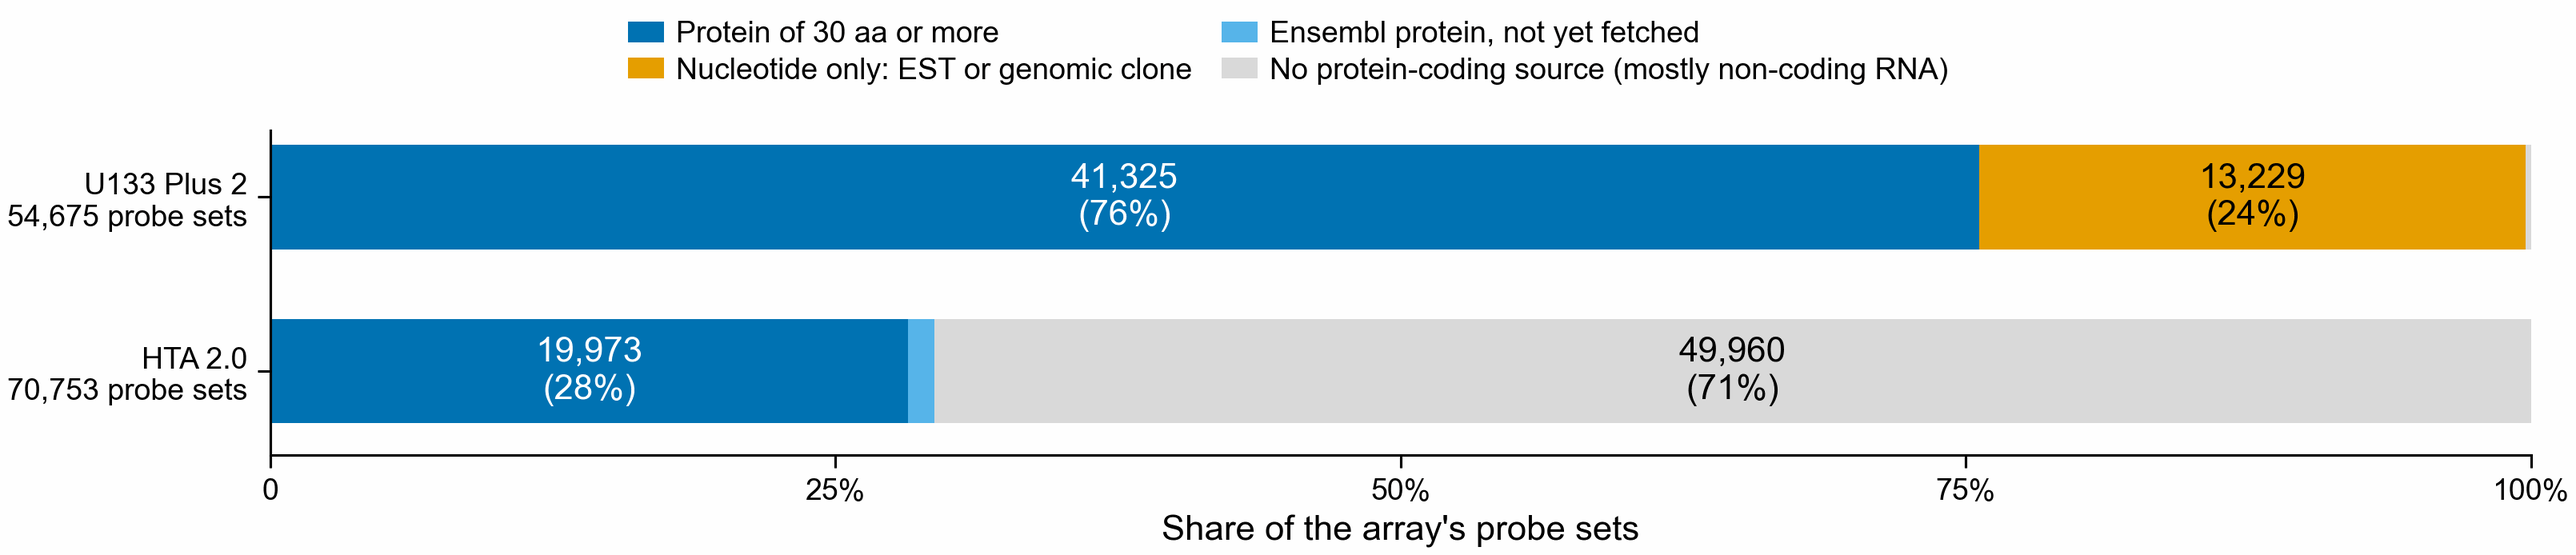
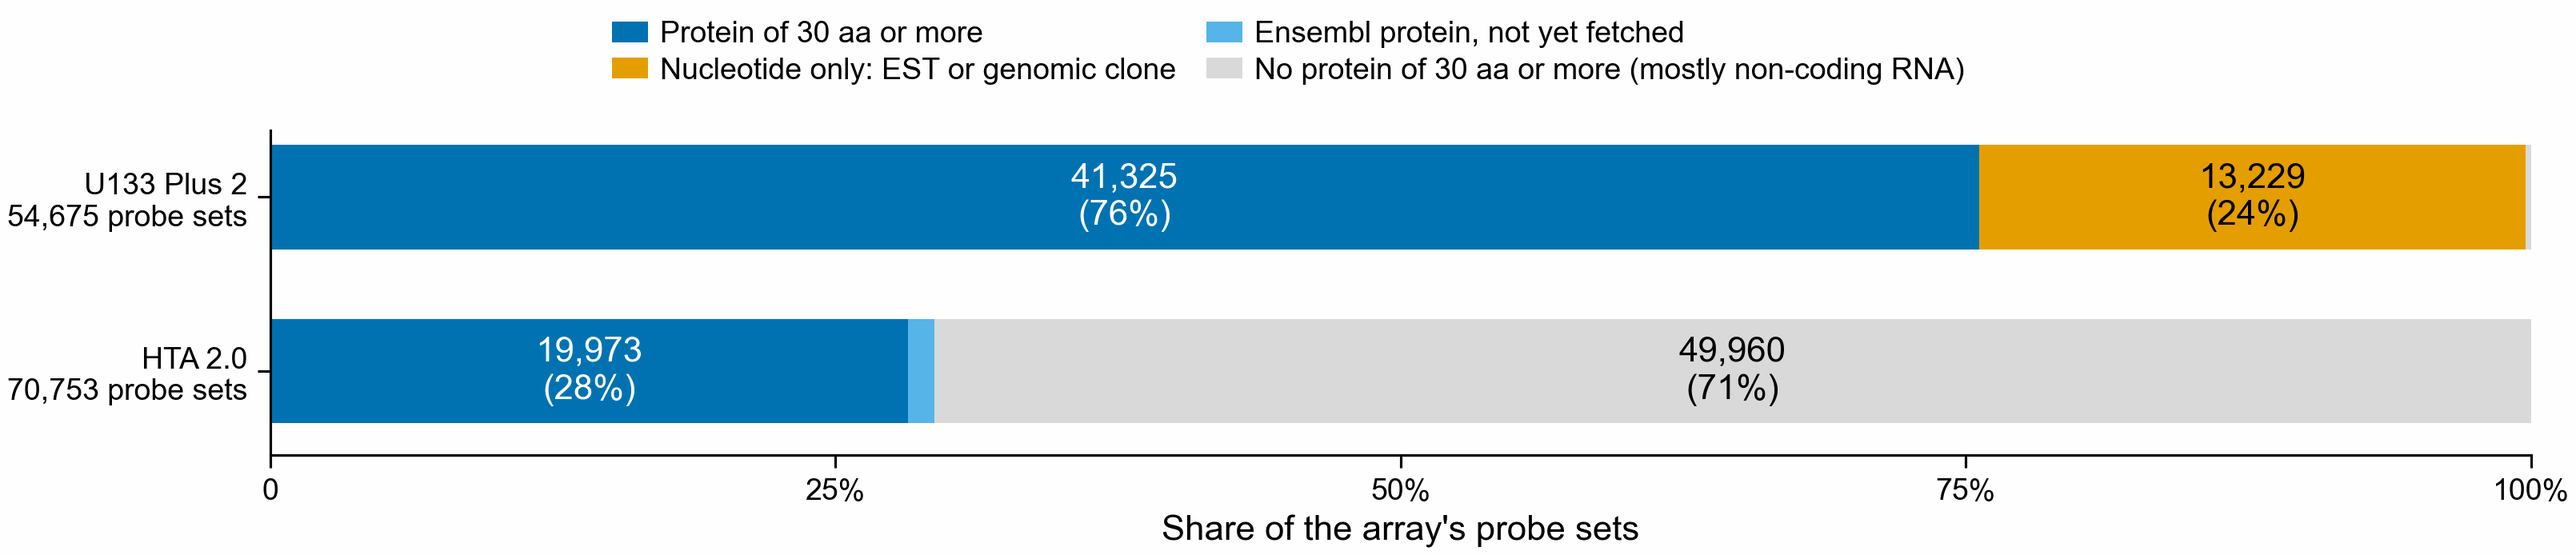
README: anchors fall in 22 clusters; coverage column is 'no protein of 30 aa or more'; contigs 82 % to 98 %
From the nightly /analysis-review of ed4ea5a9. The 121 (U133) and 49,960 (HTA) probe sets include
55 GenBank accessions with no sequence and 14 + 14 proteins under 30 aa, not only probe sets with no
protein-coding source; the figure legend is renamed to match.

Changed region(s): [[0.2174, 0.0303, 0.7764, 0.1513]]

diff --git a/geo2kmers/fig4/plot_protein_coverage.py b/geo2kmers/fig4/plot_protein_coverage.py
@@ -2,7 +2,8 @@
 
 Usage: plot_protein_coverage.py <coverage.tsv> <path to the repository's notebooks folder>
 One bar per array, split by what the probe set's annotation leads to: a protein of 30 amino acids or more, a nucleotide
-sequence only (EST or genomic clone, untranslated), an Ensembl protein not yet fetched, or no protein-coding source.
+sequence only (EST or genomic clone, untranslated), an Ensembl protein not yet fetched, or no protein of 30 amino
+acids or more: no protein-coding source named, or a named source with no sequence or a shorter protein.
 Writes protein_coverage.png and .svg next to the table.
 """
 
@@ -14,6 +15,7 @@ table, notebooks = sys.argv[1:]
 sys.path.insert(0, notebooks)
 import pubfig as pf  # noqa: E402
 
+NONE = "No protein of 30 aa or more (mostly non-coding RNA)"
 GROUPS = [
     (
         "Protein of 30 aa or more",
@@ -22,7 +24,7 @@ GROUPS = [
     ),
     ("Nucleotide only: EST or genomic clone", pf.OKABE_ITO["orange"], {"est", "genomic_clone"}),
     ("Ensembl protein, not yet fetched", pf.OKABE_ITO["sky_blue"], {"ensembl_coding"}),
-    ("No protein-coding source (mostly non-coding RNA)", "#D9D9D9", {"other_only", "none"}),
+    (NONE, "#D9D9D9", {"other_only", "none"}),
 ]
 sums = defaultdict(lambda: defaultdict(int))
 totals = defaultdict(int)
@@ -31,7 +33,7 @@ with open(table) as f:
         group = next(g for g, _, sources in GROUPS if r["source"] in sources)
         n = int(r["long_enough"]) if group.startswith(("Protein", "Nucleotide")) else int(r["probe_sets"])
         sums[r["array"]][group] += n
-        sums[r["array"]]["No protein-coding source (mostly non-coding RNA)"] += int(r["probe_sets"]) - n
+        sums[r["array"]][NONE] += int(r["probe_sets"]) - n
         totals[r["array"]] += int(r["probe_sets"])
 arrays = list(totals)[::-1]
 pf.use_style()

diff --git a/geo2kmers/README.md b/geo2kmers/README.md
@@ -449,8 +449,8 @@ KaMRaT's false discovery correction divides by rank + 1 and never adjusts the to
 about half the standard Benjamini-Hochberg ones at the top. That is why it reports 102 k-mers for GSE28998 where the
 standard method gives 100. Its ranking by p-value is unaffected and matches ours.
 
-The 30 GSE111555 SPLASH anchors that sit inside one gene cluster fall in 18 clusters
-(`results/fig4/held_out/GSE111555.anchor_genes.tsv`). Twelve anchors are in 10 protein-coding genes: TTN (3 anchors),
+The 30 GSE111555 SPLASH anchors that sit inside one gene cluster fall in 22 clusters, 10 protein-coding and 12
+non-coding (`results/fig4/held_out/GSE111555.anchor_genes.tsv`). Twelve anchors are in 10 protein-coding genes: TTN (3 anchors),
 CLPTM1L, HRC, HSPG2, GIGYF2, MRPL23, STX3, DUSP5, MAGEC1 and VCX. The other 18 are in non-coding clusters, five of
 them in linc-BRD9-1. None is a signature gene. Only 2 anchors include a probe across an exon-exon junction; the other
 28 compare probes within exons, which a change in which part of a transcript is kept or a probe's own response could
@@ -479,7 +479,7 @@ series; the chosen k-mers beat all 200 random sets. The count of people higher a
 they left random sets in GSE28998 without an AUC, and is recorded in the plan. This is one pair of series on one array,
 which differ in muscle, training and health, so it shows the change carries over but not which part of it does.
 
-KaMRaT's contigs are short: 81 % to 98 % of contigs from each comparison's 10000 top k-mers are one 25-letter k-mer on
+KaMRaT's contigs are short: 82 % to 98 % of contigs from each comparison's 10000 top k-mers are one 25-letter k-mer on
 the Affymetrix arrays, and the longest is 84 letters (`results/fig4/contig_lengths/contig_lengths.png`), because each
 Affymetrix probe is 25 letters (`results/fig4/probe_lengths/probe_lengths.png`). SPLASH ran without its compactor
 step, so it gives anchors and targets of 15 and 10 letters, not contigs.
@@ -492,10 +492,14 @@ The rules are in `fig4/probe_protein_plan.md`, written before the first fetch.
 
 ![protein coverage](results/fig4/probe_proteins/protein_coverage.png)
 
-| Array | Probe sets | Protein of 30 aa or more | Nucleotide only (EST or genomic clone) | No protein-coding source |
+| Array | Probe sets | Protein of 30 aa or more | Nucleotide only (EST or genomic clone) | No protein of 30 aa or more |
 |---|---:|---:|---:|---:|
 | U133 Plus 2 | 54,675 | 41,325 (76 %) | 13,229 (24 %) | 121 |
 | HTA 2.0 | 70,753 | 19,973 (28 %) | 0 | 49,960 (71 %), and 820 with an Ensembl protein not yet fetched |
+
+The last column holds probe sets with no protein-coding source named (52 on U133 Plus 2, 49,946 on HTA 2.0) and
+probe sets whose named source gave no protein of 30 aa or more: on U133 Plus 2, 55 GenBank accessions that returned no
+sequence and 14 proteins under 30 aa; on HTA 2.0, 14 proteins under 30 aa (`results/fig4/probe_proteins/coverage.tsv`).
 
 On U133 Plus 2, 40,001 probe sets get proteins through the RefSeq mRNAs their annotation lists, 692 through a
 full-length cDNA they were designed on, 443 through another GenBank mRNA and 189 through RefSeq model mRNAs. 12,975
